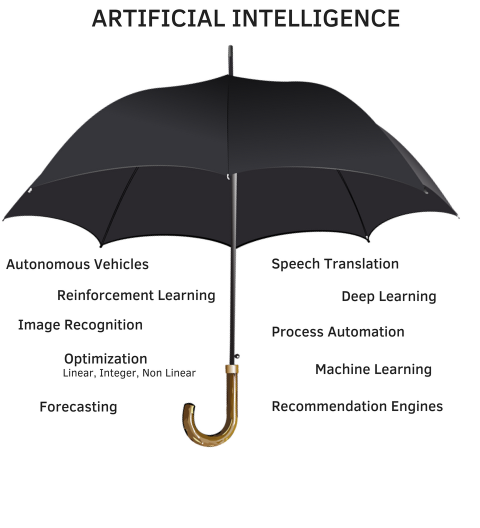
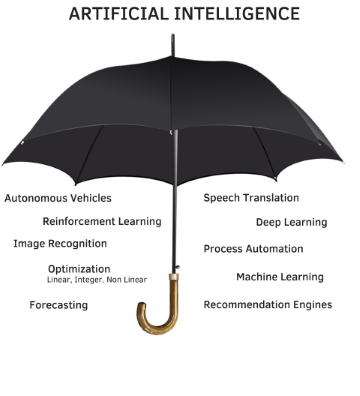
Resized image and made final edits

diff --git a/docs/gitHubDocumentation.md b/docs/gitHubDocumentation.md
@@ -148,8 +148,8 @@ The following considerations should be kept in mind when expanding Linear Reg's 
  * **Refer to the [Microsoft Style Guide](https://learn.microsoft.com/en-us/style-guide/welcome/)**
     * Identify proper terminology for software documentation. 
  * **Write in Markdown** 
-    * If comfortable, write or append new documentation directly in Markdown, commit the changes, then make a pull request. 
-    * If not, then you can write documentation on Microsoft Word and contact one of the documentation writers to convert it into Markdown. 
+    * Documentation for this iteration of Linear Reg was written and appended directly in Markdown. Changes were commit to Github, followed by pull requests.
+    * If your experience with Markdown is limited, then you can write documentation in Microsoft Word and seek developer support to convert it into Markdown.
 
 ### Linear Reg Localization
 
